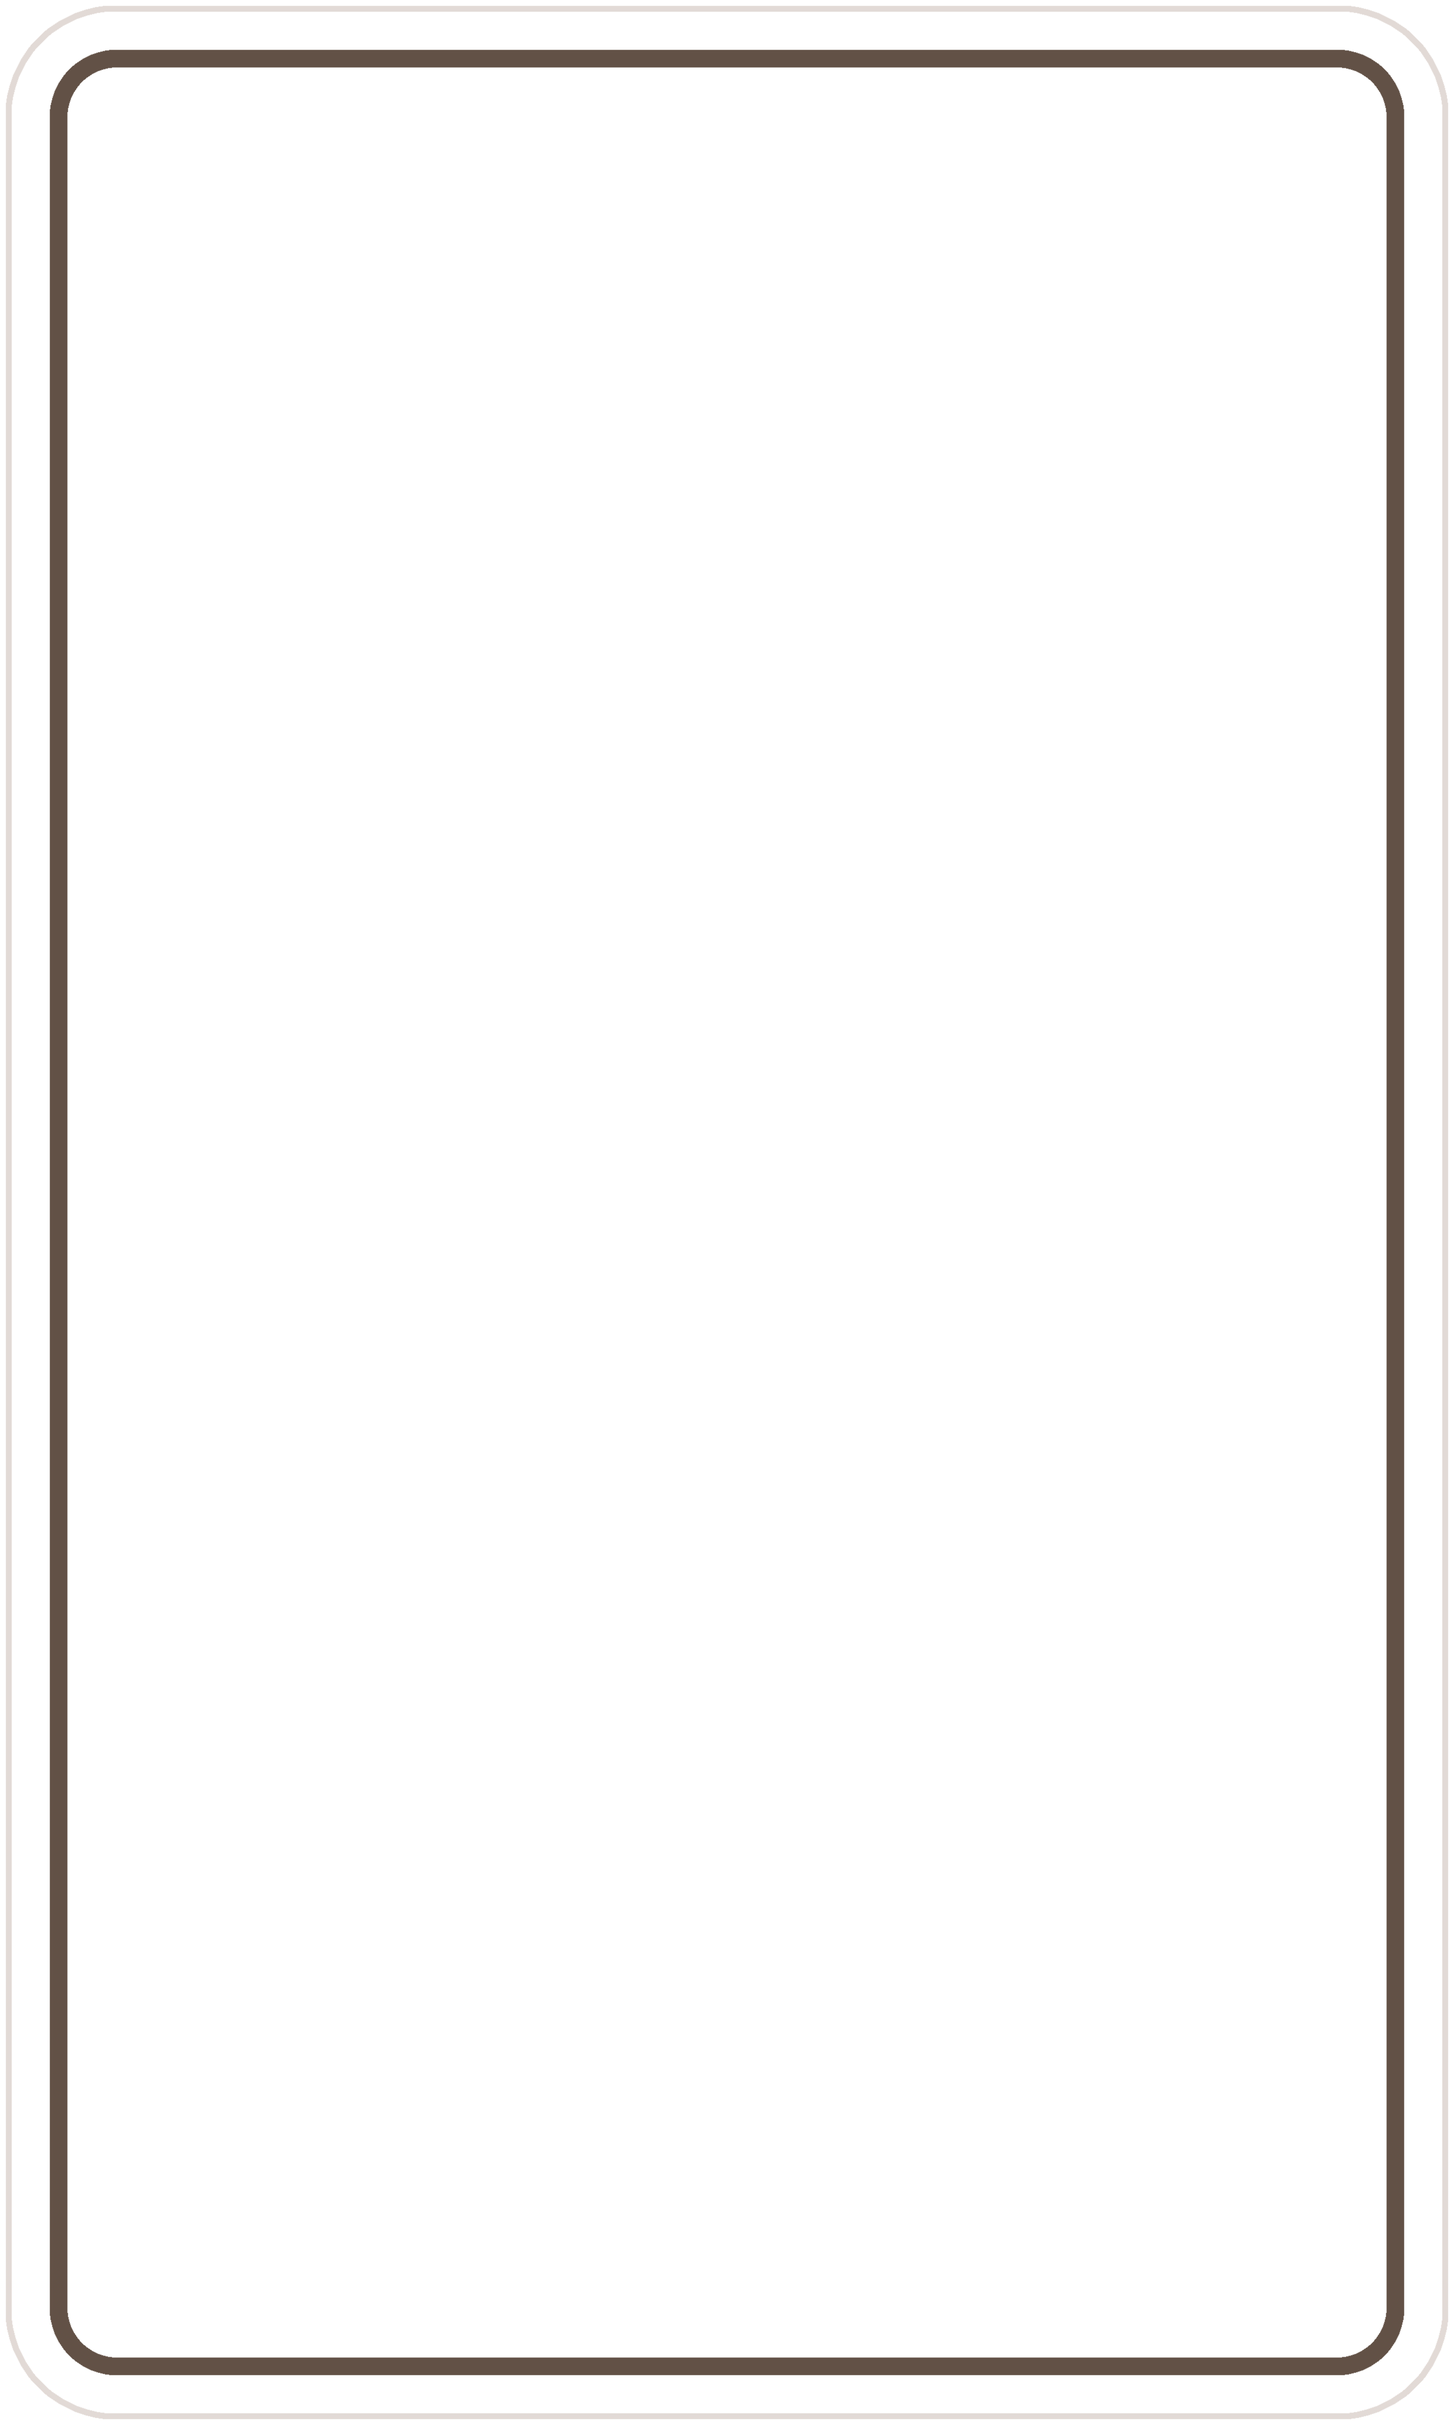
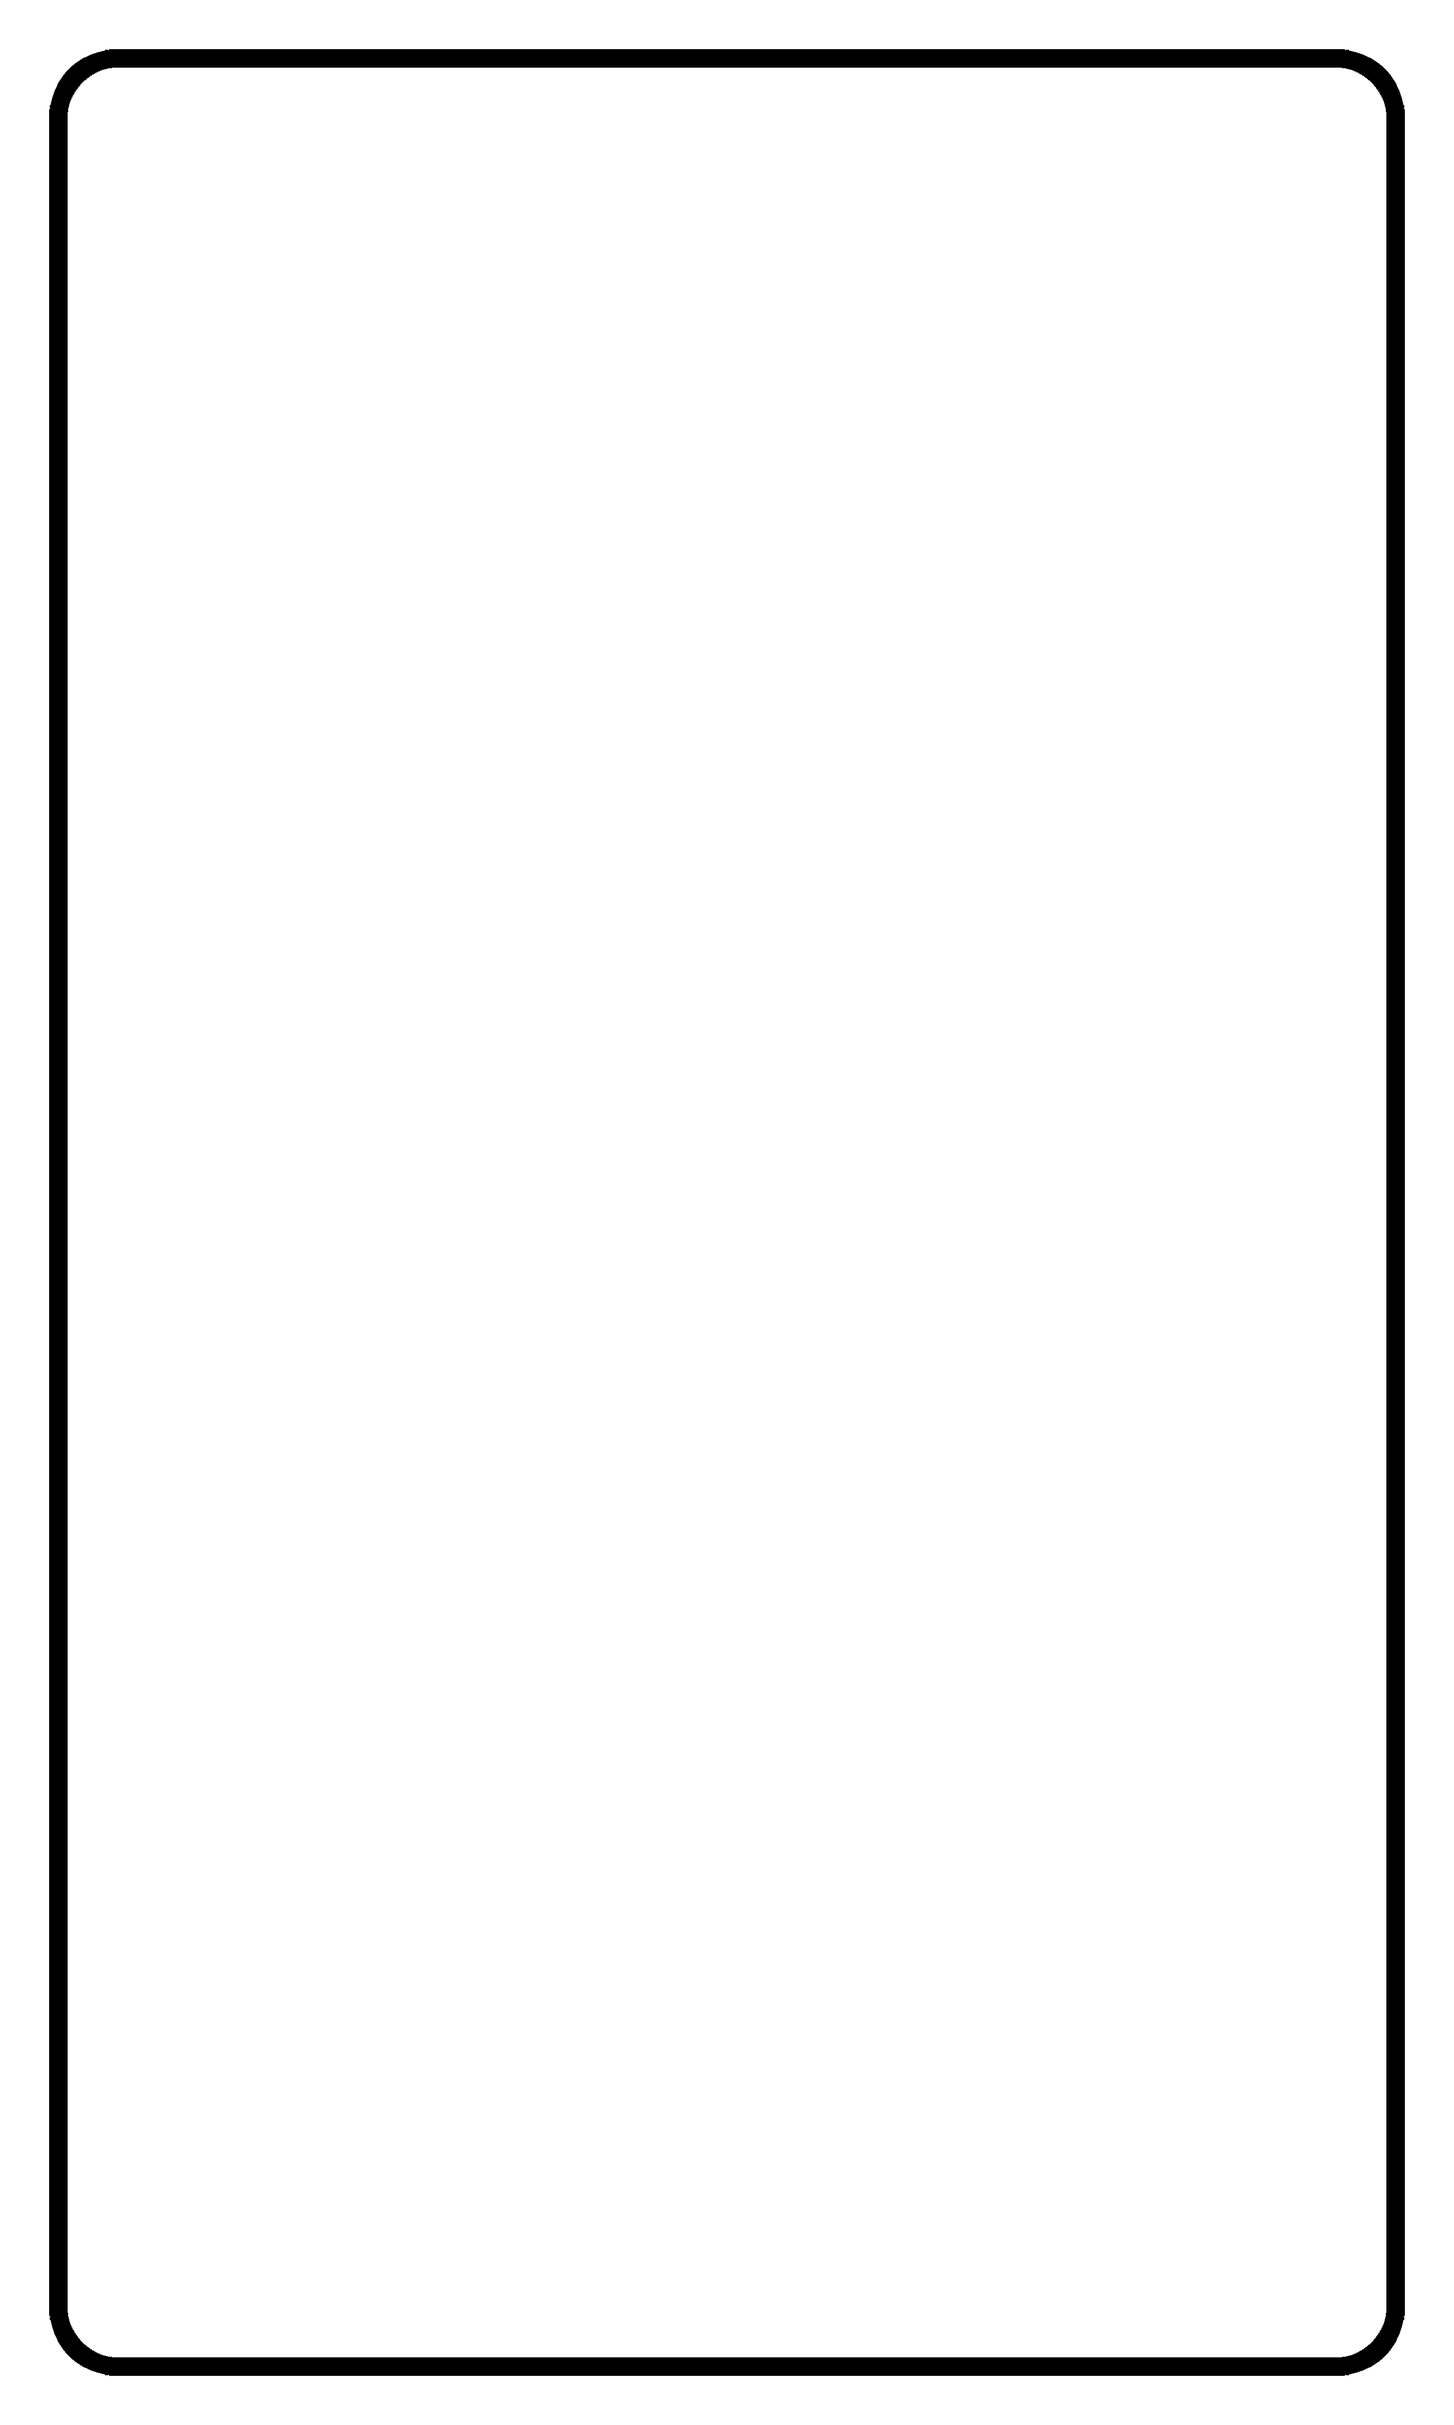
nft and card script complete

Changed region(s): [[0.0, 0.0, 1.0, 0.9995]]

diff --git a/Scripts/NFTs/card_genesis.py b/Scripts/NFTs/card_genesis.py
@@ -7,7 +7,7 @@ import os
 load_dotenv()
 
 card_size = (566, 943)
-background_colour = "#7e6254"
+background_colours = ["966a64", "7e6254", "616b63", "89815a"]
 nft_scale = 0.235
 assets_scale = 0.225
 
@@ -19,21 +19,44 @@ assets_path = os.path.join(project_base_path, "Assets")
 def getAssetsFontPath(font_name):
     return os.path.join(assets_path, "Fonts", font_name + ".ttf")
 
-
-def getAssetsCardPath(image_full_name):
-    return os.path.join(assets_path, "Cards", "Front", image_full_name + ".png")
-
-
 def getNFTWithPath(nft_number):
     return os.path.join(ipfs_path, "NFTs", "Genesis", str(nft_number) + ".png")
 
+# Assets
 
-def getIPFSCardsGenesisPath():
-    return os.path.join(ipfs_path, "Cards", "Genesis")
+def getAssetsCardPath():
+    return os.path.join(assets_path, "Cards")
 
+def getAssetsCardRootPath(direction, image_name):
+    return os.path.join(getAssetsCardPath(), direction, image_name + ".png")
 
-def getCardsPath(card_number):
-    return os.path.join(ipfs_path, "Cards", "Genesis", str(card_number) + ".png")
+def getAssetsCardFrontPath(image_name):
+    return getAssetsCardRootPath("Front", image_name)
+
+def getAssetsCardBackPath(image_name):
+    return getAssetsCardRootPath("Back", image_name)
+
+# IPFS
+
+def getIPFSCardsPath(direction):
+    return os.path.join(ipfs_path, "Cards", "Genesis", direction)
+
+def getIPFSCardsFrontPath():
+    return getIPFSCardsPath("Front")
+
+def getIPFSCardsBackPath():
+    return getIPFSCardsPath("Back")
+
+# Card Path (Save)
+
+def getCardsPath(direction, card_number):
+    return os.path.join(ipfs_path, "Cards", "Genesis", direction, str(card_number) + ".png")
+
+def getCardsFrontPath(card_number):
+    return getCardsPath("Front", card_number)
+
+def getCardsBackPath(card_number):
+    return getCardsPath("Back", card_number)
 
 
 gravitas_one = getAssetsFontPath("GravitasOne-Regular")
@@ -49,37 +72,97 @@ rock_salt_60 = ImageFont.truetype(font=rock_salt, size=60)
 # rock_salt_60.set_variation_by_name("Bold")
 rock_salt_70 = ImageFont.truetype(font=rock_salt, size=70)
 typewriter_80 = ImageFont.truetype(font=typewriter, size=80)
+typewriter_200 = ImageFont.truetype(font=typewriter, size=200)
 
 
-def delete_old_genesis_cards():
-    for file in os.scandir(getIPFSCardsGenesisPath()):
+def delete_old_cards():
+    for file in os.scandir(getIPFSCardsFrontPath()):
+        if file.name.endswith(".png"):
+            os.unlink(file.path)
+    for file in os.scandir(getIPFSCardsBackPath()):
         if file.name.endswith(".png"):
             os.unlink(file.path)
 
-def create_genesis_card(
-    nft_image, ape_number, score_number, background_number, clothes_number, head_number, eyes_number, mouth_number
+
+def create_card(
+    nft_image,
+    ape_number,
+    score_number,
+    background_number,
+    clothes_number,
+    head_number,
+    eyes_number,
+    mouth_number,
 ):
 
-    card = Image.new("RGB", card_size, color=background_colour)
+    ape_number += 1
+
+    card_front(
+        nft_image,
+        ape_number,
+        score_number,
+        background_number,
+        clothes_number,
+        head_number,
+        eyes_number,
+        mouth_number,
+    )
+
+    card_back(ape_number, background_number)
+
+
+def card_back(ape_number, background_number):
+    card_base = Image.new("RGBA", card_size, color="#"+background_colours[background_number])
+    border_and_text = Image.open(os.path.join(getAssetsCardBackPath("card_back")))
+    border_nad_text_scalled = ImageOps.scale(border_and_text, assets_scale).resize(card_size)
+    card = Image.alpha_composite(card_base, border_nad_text_scalled)
+
+    ape_number_card = Image.new("RGBA", card_size, color="black")
+    white_background = Image.new("RGBA", card_size, color="white")
+    drawable_image = ImageDraw.Draw(ape_number_card)
+    _, _, w, h = drawable_image.textbbox((0, 0), str(ape_number), font=typewriter_200)
+    drawable_image.text(((card_size[0]-w)/2, 650), str(ape_number), fill=(35,35,35,255), font=typewriter_200)
+
+    r, g, b, a = ape_number_card.split()
+    ape_number_card_recombined = Image.merge("RGBA", (g, g, b, r))
+    # 6. Paset it onto the card
+    card.paste(white_background, (0, 0), ape_number_card_recombined)
+
+    cut_the_corners_off(card)
+    card.save(getCardsBackPath(ape_number - 1))
+
+
+def card_front(
+    nft_image,
+    ape_number,
+    score_number,
+    background_number,
+    clothes_number,
+    head_number,
+    eyes_number,
+    mouth_number,
+):
+
+    card = Image.new("RGB", card_size, color="#" + background_colours[background_number])
 
     # NFT
 
-    #nft_image = Image.open(getNFTWithPath(ape_number))
+    # nft_image = Image.open(getNFTWithPath(ape_number))
 
     nft_image_scaled = ImageOps.scale(nft_image, nft_scale)
 
     card.paste(nft_image_scaled, (-80, 0))
 
-    add_borders(card)
+    card_front_add_borders(card)
 
     # Registration Card
 
-    registration_card = Image.open(getAssetsCardPath("registration_card"))
+    registration_card = Image.open(getAssetsCardFrontPath("registration_card"))
 
     drawable_image = ImageDraw.Draw(registration_card)
 
     # Create the details on the card
-    card_details(
+    card_front_details(
         drawable_image,
         score_number,
         background_number,
@@ -89,9 +172,9 @@ def create_genesis_card(
         mouth_number,
     )
 
-    create_drop_shadow(card, registration_card)
+    card_front_drop_shadow(card, registration_card)
 
-    reg_card_colour, reg_card_alpha = create_reg_card_colour_and_alpha(
+    reg_card_colour, reg_card_alpha = card_front_reg_card_colour_and_alpha(
         registration_card
     )
 
@@ -99,14 +182,14 @@ def create_genesis_card(
 
     cut_the_corners_off(card)
 
-    card.save(getCardsPath(ape_number))
+    card.save(getCardsFrontPath(ape_number - 1))
 
 
-def add_borders(card):
-    borders = Image.open(getAssetsCardPath("borders"))
+def card_front_add_borders(card):
+    borders = Image.open(getAssetsCardFrontPath("borders"))
     borders_scaled = ImageOps.scale(borders, assets_scale)
 
-    borders_alpha = Image.open(getAssetsCardPath("borders_alpha"))
+    borders_alpha = Image.open(getAssetsCardFrontPath("borders_alpha"))
     borders_alpha_scaled = ImageOps.scale(borders_alpha, assets_scale)
     r, g, b, a = borders_alpha_scaled.split()
     borders_alpha_recombined = Image.merge("RGBA", (r, g, b, r))
@@ -114,7 +197,7 @@ def add_borders(card):
     card.paste(borders_scaled, (0, 0), borders_alpha_recombined)
 
 
-def card_details(
+def card_front_details(
     drawable_image,
     score_number,
     background_number,
@@ -196,7 +279,7 @@ def card_details(
     )
 
 
-def create_drop_shadow(card, registration_card):
+def card_front_drop_shadow(card, registration_card):
     # 1. Create a slate for the drop shadow
     blank_slate_drop_shadow = Image.new("RGB", card_size, color="black")
     # 2. Use the reg card commands
@@ -209,14 +292,14 @@ def create_drop_shadow(card, registration_card):
     blank_slate_drop_shadow_blur = blank_slate_drop_shadow.filter(
         ImageFilter.GaussianBlur(15)
     )
-    # 5. Set the alph to the colors
+    # 5. Set the alpha to the colors
     r, g, b = blank_slate_drop_shadow_blur.split()
     blank_slate_drop_shadow_recombined = Image.merge("RGBA", (r, g, b, r))
     # 6. Paset it onto the card
     card.paste(blank_slate_drop_shadow, (0, 0), blank_slate_drop_shadow_recombined)
 
 
-def create_reg_card_colour_and_alpha(registration_card):
+def card_front_reg_card_colour_and_alpha(registration_card):
     reg_card_scaled = ImageOps.scale(registration_card, assets_scale)
     reg_card_rotated = reg_card_scaled.rotate(
         5, resample=3, expand=1, fillcolor="#fdfbc0"
@@ -244,7 +327,7 @@ def create_reg_card_colour_and_alpha(registration_card):
 
 def cut_the_corners_off(card):
     corners_colour = Image.new("RGB", card_size, color="black")
-    corners_alpha = Image.open(getAssetsCardPath("corners_alpha"))
+    corners_alpha = Image.open(os.path.join(getAssetsCardPath(), "corners_alpha.png"))
     corners_alpha_scaled = ImageOps.scale(corners_alpha, assets_scale).resize(card_size)
     r, g, b, a = corners_alpha_scaled.split()
     corners_alpha_recombined = Image.merge("RGBA", (r, g, b, r))

diff --git a/Scripts/NFTs/create_nfts.py b/Scripts/NFTs/create_nfts.py
@@ -1,6 +1,7 @@
 #!python
 
-from card import create_genesis_card, delete_old_genesis_cards
+from card_genesis import create_card as create_genesis_card
+from card_genesis import delete_old_cards as delete_old_genesis_cards
 from progress_bar import progressbar
 from dotenv import load_dotenv
 from PIL import Image
@@ -16,12 +17,20 @@ ipfs_client = None
 
 # Environment & Input checks
 
-if os.getenv('VIRTUAL_ENV') == None:
-    print("This script needs to be run inside a virtual environment. Please read the README.md")
+if os.getenv("VIRTUAL_ENV") == None:
+    print(
+        "This script needs to be run inside a virtual environment. Please read the README.md"
+    )
     exit()
 
-if len(sys.argv) == 1 or len(sys.argv) > 2 and sys.argv[1] not in ["genesis", "second_season", "third_season"]:
-    print("Please use the argument 'genesis', 'second_season' or 'third_season' to generate NFTs")
+if (
+    len(sys.argv) == 1
+    or len(sys.argv) > 2
+    and sys.argv[1] not in ["genesis", "second_season", "third_season"]
+):
+    print(
+        "Please use the argument 'genesis', 'second_season' or 'third_season' to generate NFTs"
+    )
     exit()
 
 season = sys.argv[1]
@@ -31,7 +40,7 @@ images_path = os.path.join(current_wd, os.path.join("..", "..", "Assets", "Drawi
 ipfs_folder_path = os.path.join(current_wd, os.path.join("..", "..", "IPFS"))
 json_folder_path = os.path.join(ipfs_folder_path, os.path.join("JSON"))
 base_ape = Image.open(os.path.join(images_path, "ape.png"))
-categories = ['background', 'clothes', 'head', 'eyes', 'mouth']
+categories = ["background", "clothes", "head", "eyes", "mouth"]
 nfts_attributes = []
 nfts_path = None
 json_files_path = None
@@ -41,23 +50,28 @@ items = []
 
 if season == "genesis":
     number_of_nfts = 3
-    item_range = [x for x in range(0,4)]
+    item_range = [x for x in range(0, 4)]
     nfts_path = os.path.join(ipfs_folder_path, os.path.join("NFTs", "Genesis"))
     json_files_path = os.path.join(json_folder_path, os.path.join("Genesis"))
 elif season == "second_season":
     number_of_nfts = 2000
-    item_range = [x for x in range(0,7)]
+    item_range = [x for x in range(0, 7)]
     nfts_path = os.path.join(ipfs_folder_path, os.path.join("NFTs", "2nd_Season"))
     json_files_path = os.path.join(json_folder_path, os.path.join("2nd_Season"))
 elif season == "third_season":
     number_of_nfts = 3000
-    item_range = [x for x in range(4,10)]
+    item_range = [x for x in range(4, 10)]
     nfts_path = os.path.join(ipfs_folder_path, os.path.join("NFTs", "3rd_Season"))
     json_files_path = os.path.join(json_folder_path, os.path.join("3rd_season"))
 else:
     exit(str(season) + " is not a season!")
 
-if nfts_path == None or json_files_path == None or number_of_nfts == 0 or len(item_range) == 0:
+if (
+    nfts_path == None
+    or json_files_path == None
+    or number_of_nfts == 0
+    or len(item_range) == 0
+):
     exit("Setup Failed!")
 
 # Delete all the old files
@@ -76,8 +90,19 @@ delete_old_genesis_cards()
 
 for category in categories:
     items.append([])
-    for category_num in range(0,10):
-        items[len(items)-1].append(Image.open(images_path + "/" + category + "/" + category + "_" +str(category_num) + ".png"))
+    for category_num in range(0, 10):
+        items[len(items) - 1].append(
+            Image.open(
+                images_path
+                + "/"
+                + category
+                + "/"
+                + category
+                + "_"
+                + str(category_num)
+                + ".png"
+            )
+        )
 
 # Create an arrary of all unique NFT traits
 
@@ -86,7 +111,7 @@ for bg in item_range:
         for h in item_range:
             for e in item_range:
                 for m in item_range:
-                    nfts_attributes.append([bg,cl,h,e,m])
+                    nfts_attributes.append([bg, cl, h, e, m])
 
 random.shuffle(nfts_attributes)
 
@@ -99,10 +124,10 @@ manifest = []
 
 for current_nft in progressbar(total_nfts, "Generating NFTs: ", 40):
     # Create the NFTs
-    nft_image = Image.new('RGBA', base_ape.size, (255,255,255,255))
+    nft_image = Image.new("RGBA", base_ape.size, (255, 255, 255, 255))
     traits = {}
-    traits_score = 0;
-    for i in range(0,len(categories)):
+    traits_score = 0
+    for i in range(0, len(categories)):
         # background
         if i == 0:
             # start with the background
@@ -126,7 +151,7 @@ for current_nft in progressbar(total_nfts, "Generating NFTs: ", 40):
         clothes_number=traits["clothes"],
         head_number=traits["head"],
         eyes_number=traits["eyes"],
-        mouth_number=traits["mouth"]
+        mouth_number=traits["mouth"],
     )
     # Create NFTs traits list for manifest
     manifest.append(traits)
